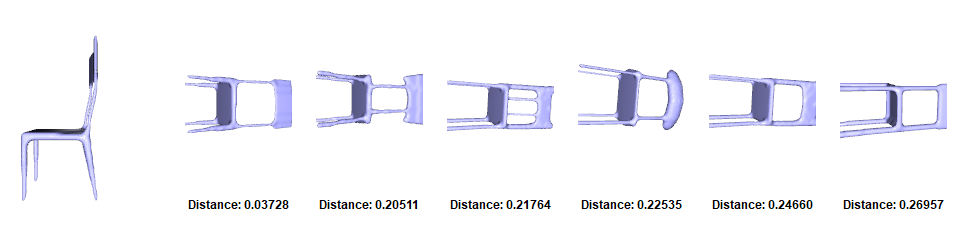
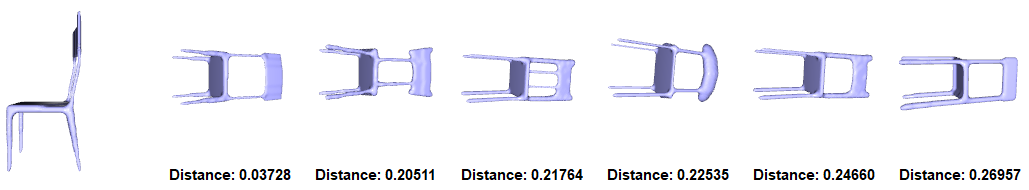
ADD: Query results, increase font size

Changed region(s): [[0.1514, 0.2105, 0.999, 0.6053], [0.0, 0.0789, 0.1211, 0.8947], [0.1514, 0.8684, 0.999, 0.9474]]

diff --git a/app/widget/tab/query_tab_widget.py b/app/widget/tab/query_tab_widget.py
@@ -2,6 +2,7 @@ from PyQt6.QtWidgets import QWidget, QVBoxLayout, QHBoxLayout, QGridLayout
 from PyQt6.QtGui import QWindow
 
 from app.widget.query_result_widget import QueryResultWidget
+from database.knn_querier import KNNQuerier
 from src.pipeline.feature_extractor.shape_properties_extractor import ShapePropertyExtractor
 from src.database.custom_querier import CustomQuerier
 from src.object.settings import Settings
@@ -18,7 +19,7 @@ from src.util.configs import *
 class QueryTabWidget(QWidget):
     RESULTS_PER_ROW = 6
 
-    def __init__(self):
+    def __init__(self, use_custom_querier: bool = True):
         super(QueryTabWidget, self).__init__()
         color_widget(self, [0, 255, 0])
 
@@ -26,11 +27,17 @@ class QueryTabWidget(QWidget):
         self.settings: Settings = Settings()
         self.settings_widget = SettingsWidget(self.settings)
         self.pipeline = NormalizationPipeline()
-        # self.querier = DatabaseQuerier(os.path.join(DATABASE_REFINED_DIR, DATABASE_NORMALIZED_DESCRIPTORS_FILENAME))
-        self.querier = CustomQuerier(
-            os.path.join(DATABASE_NORMALIZED_DIR, DATABASE_NORMALIZED_DESCRIPTORS_FILENAME),
-            os.path.join(DATABASE_NORMALIZED_DIR, DATABASE_PROPERTIES_FILENAME)
-        )
+
+        if use_custom_querier:
+            self.querier = CustomQuerier(
+                os.path.join(DATABASE_NORMALIZED_DIR, DATABASE_NORMALIZED_DESCRIPTORS_FILENAME),
+                os.path.join(DATABASE_NORMALIZED_DIR, DATABASE_PROPERTIES_FILENAME)
+            )
+        else:
+            self.querier = KNNQuerier(
+                os.path.join(DATABASE_NORMALIZED_DIR, DATABASE_NORMALIZED_DESCRIPTORS_FILENAME)  #,
+                # os.path.join(DATABASE_NORMALIZED_DIR, DATABASE_PROPERTIES_FILENAME)
+            )
 
         # Load widget
         self.query_scene_widget = VisualizationWidget(self.settings)

diff --git a/app/widget/query_result_widget.py b/app/widget/query_result_widget.py
@@ -3,6 +3,7 @@ from PyQt6.QtGui import QWindow
 
 from app.widget.util import color_widget, create_header_label
 from app.widget.visualization_widget import VisualizationWidget
+from util.font import LARGE_BOLD_FONT
 
 
 class QueryResultWidget(QWidget):
@@ -16,6 +17,7 @@ class QueryResultWidget(QWidget):
         # Load widget
         self.scene_widget = VisualizationWidget(self.settings)
         self.distance_label = create_header_label("Distance: -")
+        self.distance_label.setFont(LARGE_BOLD_FONT)
 
         # Capture scene widget into a window
         window = QWindow.fromWinId(self.scene_widget.hwnd)

diff --git a/app/util/font.py b/app/util/font.py
@@ -5,9 +5,12 @@ FONT_NAME: str = "Arial"
 FONT: QFont = QFont(FONT_NAME)
 
 SMALL_FONT = QFont(FONT_NAME, pointSize=5)
+LARGE_FONT = QFont(FONT_NAME, pointSize=11)
 
 BOLD_FONT: QFont = QFont(FONT_NAME)
 BOLD_FONT.setBold(True)
+LARGE_BOLD_FONT = QFont(FONT_NAME, pointSize=11)
+LARGE_BOLD_FONT.setBold(True)
 
 ITALIC_FONT: QFont = QFont(FONT_NAME)
 ITALIC_FONT.setItalic(True)
